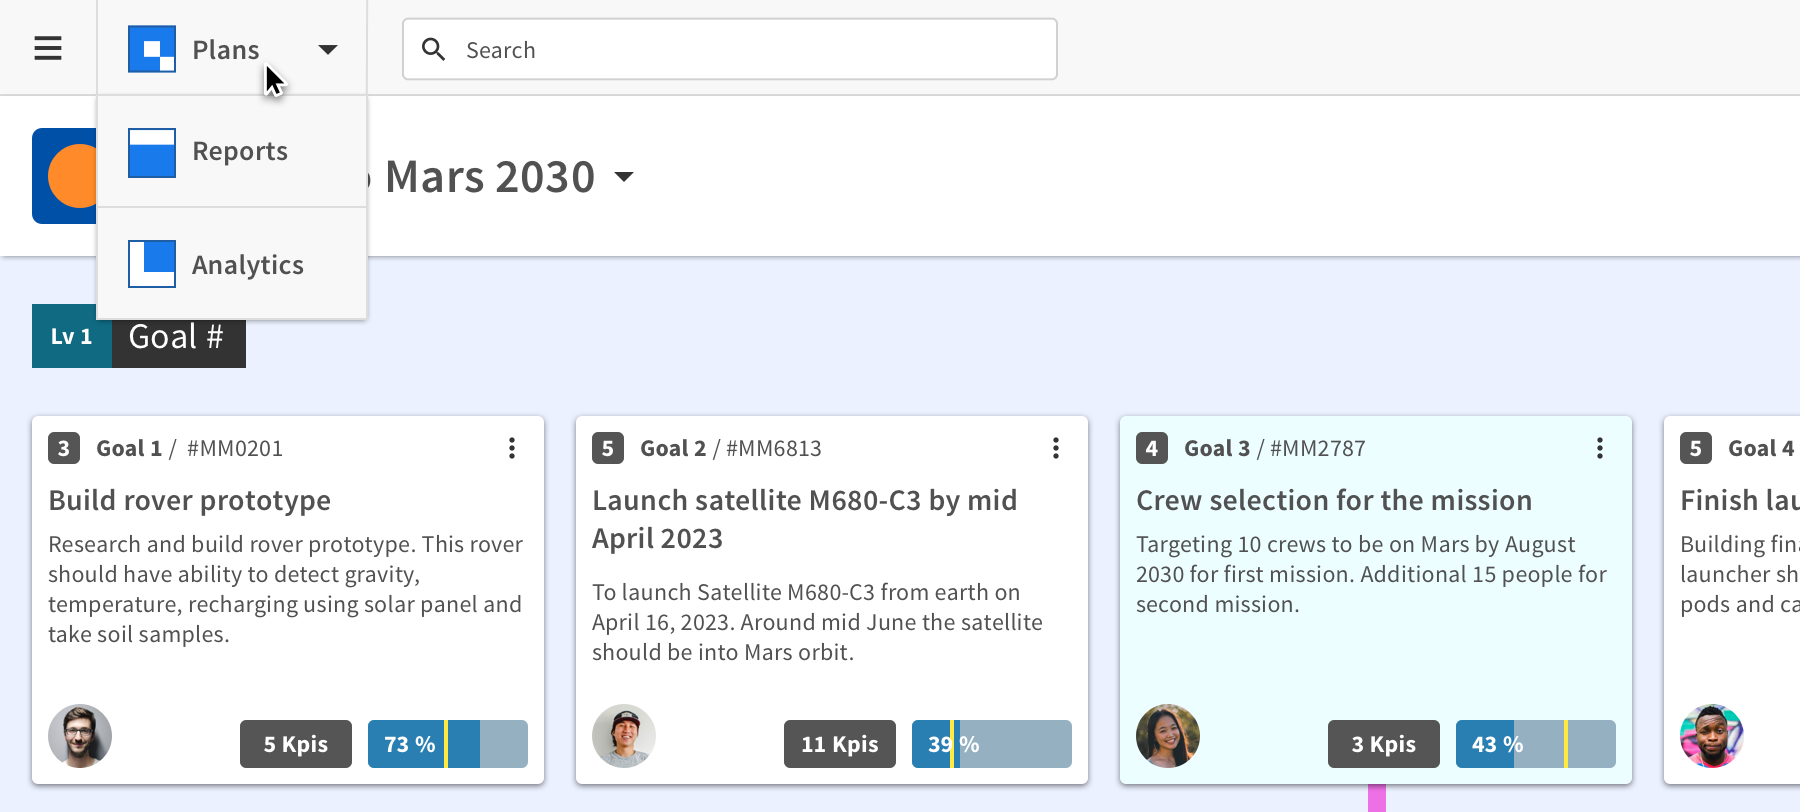
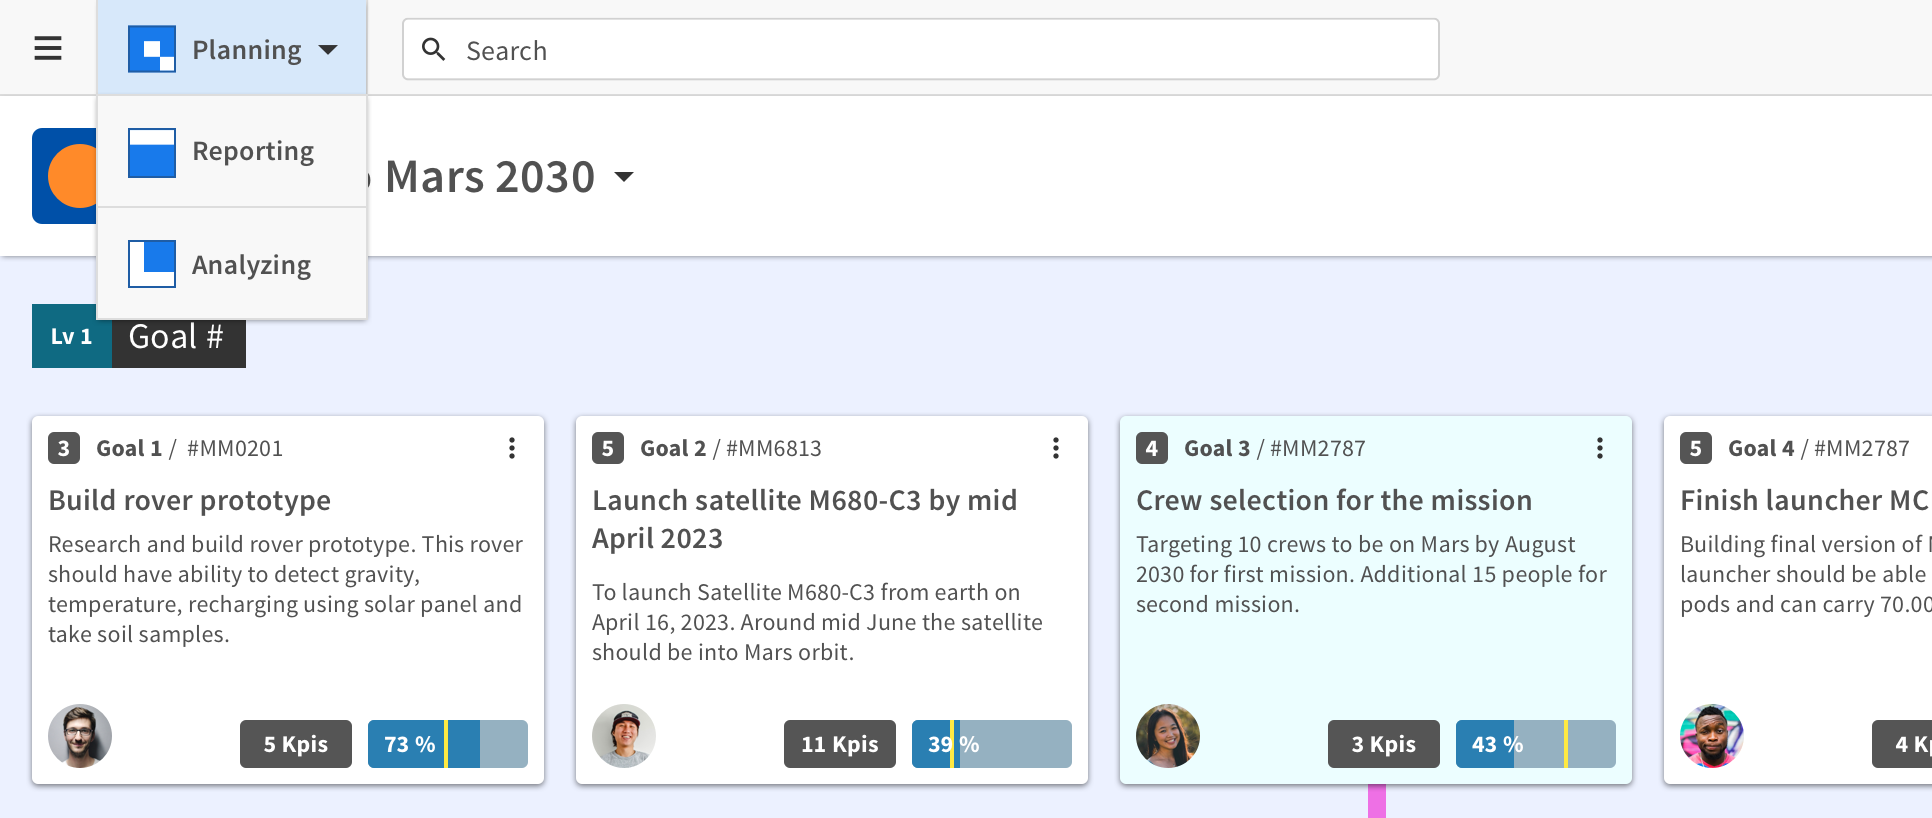
Fix envisio case study

diff --git a/src/pages/case-studies/envisio.js b/src/pages/case-studies/envisio.js
@@ -40,12 +40,12 @@ export default () => (
     <>
       <div className="par par--normal-width">
         <p className="first-paragraph">
-          Envisio develops strategic planning web applications that facilitates organizations to lay out their plans by defining their goals. Each goal's progress can be tracked and measured to ensure the operational plan is under control. Their software consists of 3 main modules: <strong>Plans</strong>, <strong>Reports</strong>, and <strong>Analytics</strong>. For this case study, the focus will only be on the plan's module as I plan on creating individual case studies for each module. Due to the NDA agreement, I am only able to share limited information about this project.
+          Envisio develops strategic planning web applications that facilitates organizations to lay out their plans by defining their goals. Each goal's progress can be tracked and measured to ensure the operational plan is under control. Their software consists of 3 main modules: <strong>Planning</strong>, <strong>Reporting</strong>, and <strong>Analyzing</strong>. For this case study, the focus will only be on the plan's module as I plan on creating individual case studies for each module. Due to the NDA agreement, I am only able to share limited information about this project.
         </p>
         <p>
           <ImgSection
             imgs={[{url: SoftwareModules}]}
-            caption="Users can navigate to a different module by clicking the module dropdown. The image shows that currently you are in the Plans module."
+            caption="Users can navigate to a different module by clicking the module dropdown. The image shows that currently user is in the planning module."
           />
         </p>
         <p>
